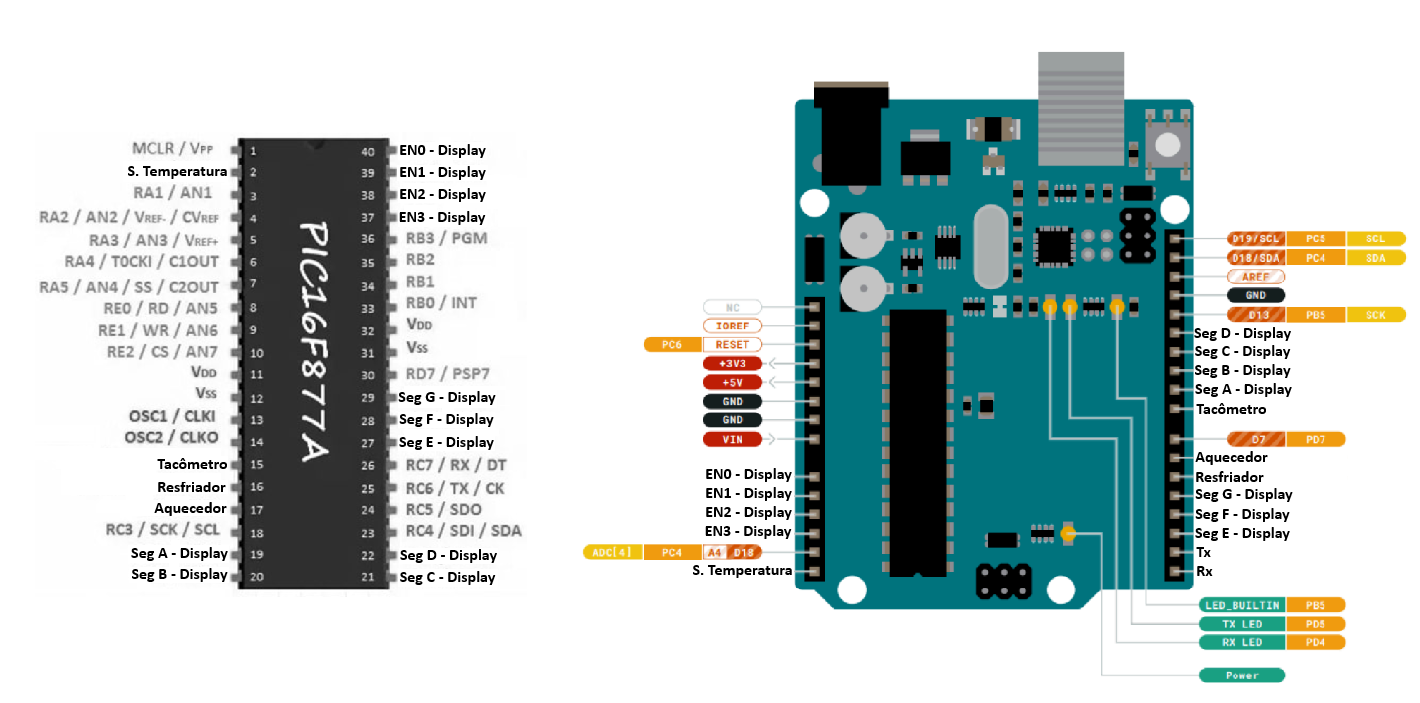
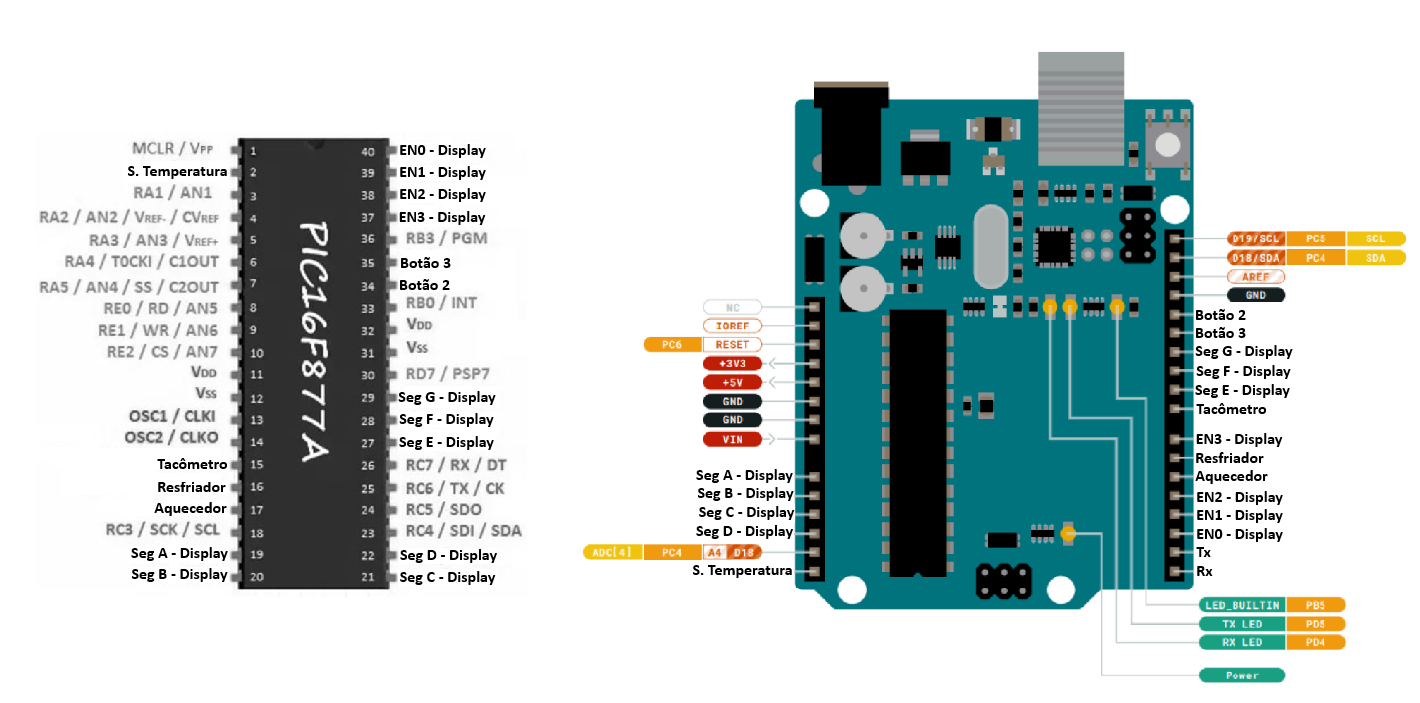
Atualização Final - Geral V2.0
Mudança na Pinagem do display de sete segmentos

diff --git a/Retrofit_8bits_ATmega328p/_DemoRetrofit_8bits_ATmega328p/libs/seven_segment_display.c b/Retrofit_8bits_ATmega328p/_DemoRetrofit_8bits_ATmega328p/libs/seven_segment_display.c
@@ -28,34 +28,34 @@ static uint8_t actualDisplay = 0;
 static uint8_t displaysValues[4] = {0, 0, 0, 0};
 
 void setupSevenSegmentDisplay(void) {
-	// Define os pinos PB1–PB4 como saída para os segmentos A, B, C e D
-	DDRB |= (1<<DDB1) | (1<<DDB2) | (1<<DDB3) | (1<<DDB4);
-	
-	// Define os pinos PD2–PD4 como saída para os segmentos E, F e G
-	DDRD |= (1<<DDD2) | (1<<DDD3) | (1<<DDD4);
-	
-	// Define os pinos PC0–PC3 como saída para habilitação dos displays (EN0 a EN3)
+	// Define os pinos PC0–PC3 como saída para os segmentos A, B, C e D
 	DDRC |= (1<<DDC0) | (1<<DDC1) | (1<<DDC2) | (1<<DDC3);
+	
+	// Define os pinos PB1–PB3 como saída para os segmentos E, F e G
+	DDRB |= (1<<DDB1) | (1<<DDB2) | (1<<DDB3);
+	
+	// Define os pinos PD2, PD3, PD4 e PD7 como saída para habilitação dos displays (EN0 a EN3)
+	DDRD |= (1<<DDD2) | (1<<DDD3) | (1<<DDD4) | (1<<DDD7);
 }
 
 void activeSegments(uint8_t segmentCode) {
 	// Ativa os segmentos com base no valor binário fornecido
-	if (segmentCode & (1<<6)) PORTB |= (1<<PORTB1); // Segmento A
-	if (segmentCode & (1<<5)) PORTB |= (1<<PORTB2); // Segmento B
-	if (segmentCode & (1<<4)) PORTB |= (1<<PORTB3); // Segmento C
-	if (segmentCode & (1<<3)) PORTB |= (1<<PORTB4); // Segmento D
-	if (segmentCode & (1<<2)) PORTD |= (1<<PORTD2); // Segmento E
-	if (segmentCode & (1<<1)) PORTD |= (1<<PORTD3); // Segmento F
-	if (segmentCode & (1<<0)) PORTD |= (1<<PORTD4); // Segmento G
+	if (segmentCode & (1<<6)) PORTC |= (1<<PORTC0); // Segmento A
+	if (segmentCode & (1<<5)) PORTC |= (1<<PORTC1); // Segmento B
+	if (segmentCode & (1<<4)) PORTC |= (1<<PORTC2); // Segmento C
+	if (segmentCode & (1<<3)) PORTC |= (1<<PORTC3); // Segmento D
+	if (segmentCode & (1<<2)) PORTB |= (1<<PORTB1); // Segmento E
+	if (segmentCode & (1<<1)) PORTB |= (1<<PORTB2); // Segmento F
+	if (segmentCode & (1<<0)) PORTB |= (1<<PORTB3); // Segmento G
 }
 
 void cleanSevenSegmentDisplay(void) {
 	// Desliga todos os segmentos
-	PORTB &= ~((1<<PORTB1) | (1<<PORTB2) | (1<<PORTB3) | (1<<PORTB4)); // Segmentos A–D
-	PORTD &= ~((1<<PORTD2) | (1<<PORTD3) | (1<<PORTD4));               // Segmentos E–G
+	PORTC &= ~((1<<PORTC0) | (1<<PORTC1) | (1<<PORTC2) | (1<<PORTC3)); // Segmentos A–D
+	PORTB &= ~((1<<PORTB1) | (1<<PORTB2) | (1<<PORTB3));               // Segmentos E–G
 	
 	// Desabilita todos os displays
-	PORTC &= ~((1<<PORTC0) | (1<<PORTC1) | (1<<PORTC2) | (1<<PORTC3));
+	PORTD &= ~((1<<PORTD2) | (1<<PORTD3) | (1<<PORTD4) | (1<<PORTD7));
 }
 
 void showSevenSegmentDisplayValue(uint8_t value, uint8_t displayAddress) {
@@ -70,16 +70,16 @@ void showSevenSegmentDisplayValue(uint8_t value, uint8_t displayAddress) {
 	// Habilita o display correspondente ao endereço fornecido
 	switch(displayAddress){
 		case 0:
-			PORTC |= (1<<PORTC0); // Habilita display 0
+			PORTD |= (1<<PORTD2); // Habilita display 0
 			break;
 		case 1:
-			PORTC |= (1<<PORTC1); // Habilita display 1
+			PORTD |= (1<<PORTD3); // Habilita display 1
 			break;
 		case 2:
-			PORTC |= (1<<PORTC2); // Habilita display 2
+			PORTD |= (1<<PORTD4); // Habilita display 2
 			break;
 		case 3:
-			PORTC |= (1<<PORTC3); // Habilita display 3
+			PORTD |= (1<<PORTD7); // Habilita display 3
 			break;
 		default:
 			break; // Endereço inválido: nenhum display é habilitado
